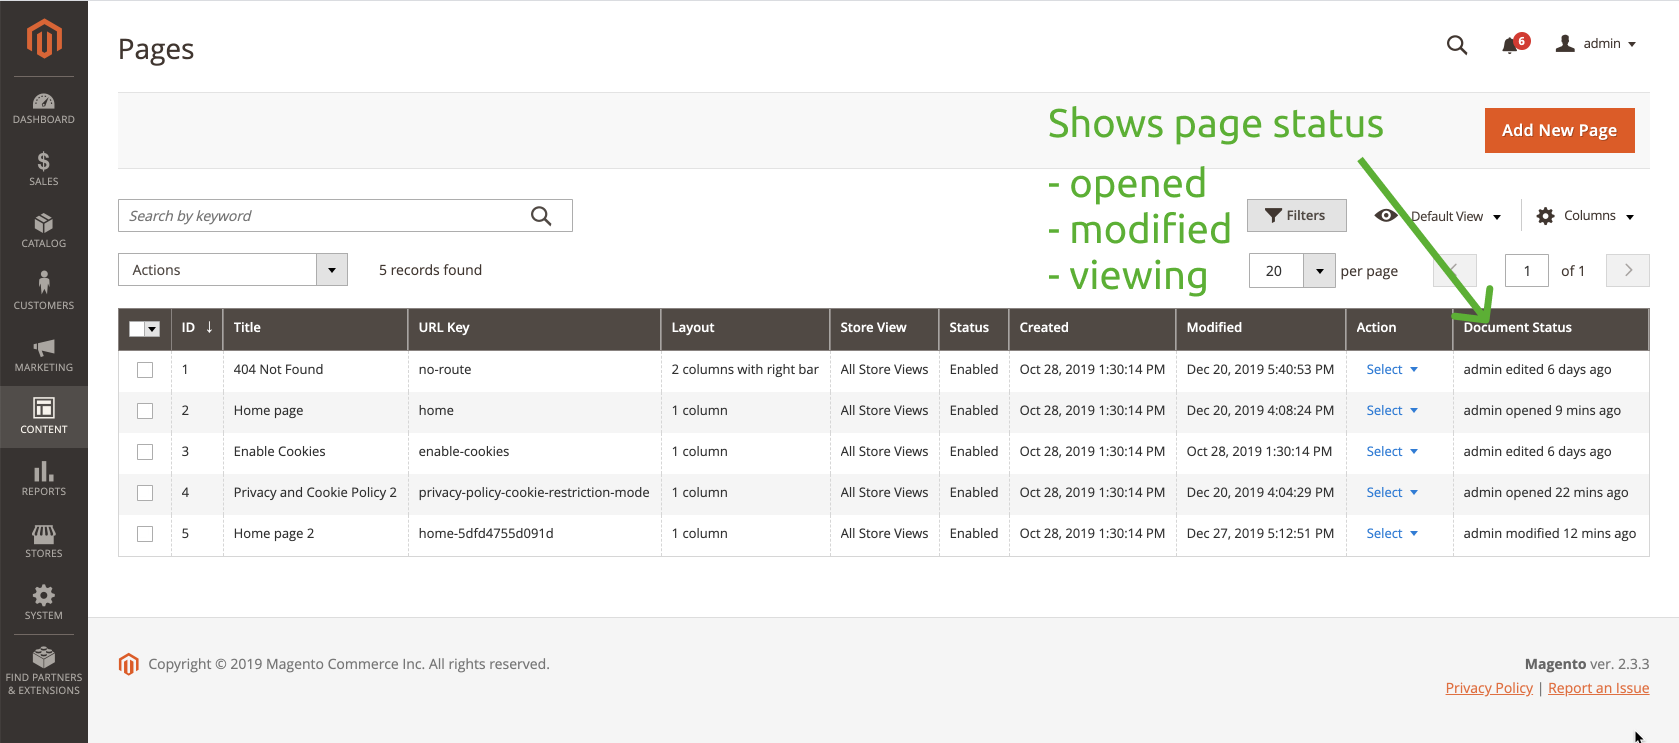
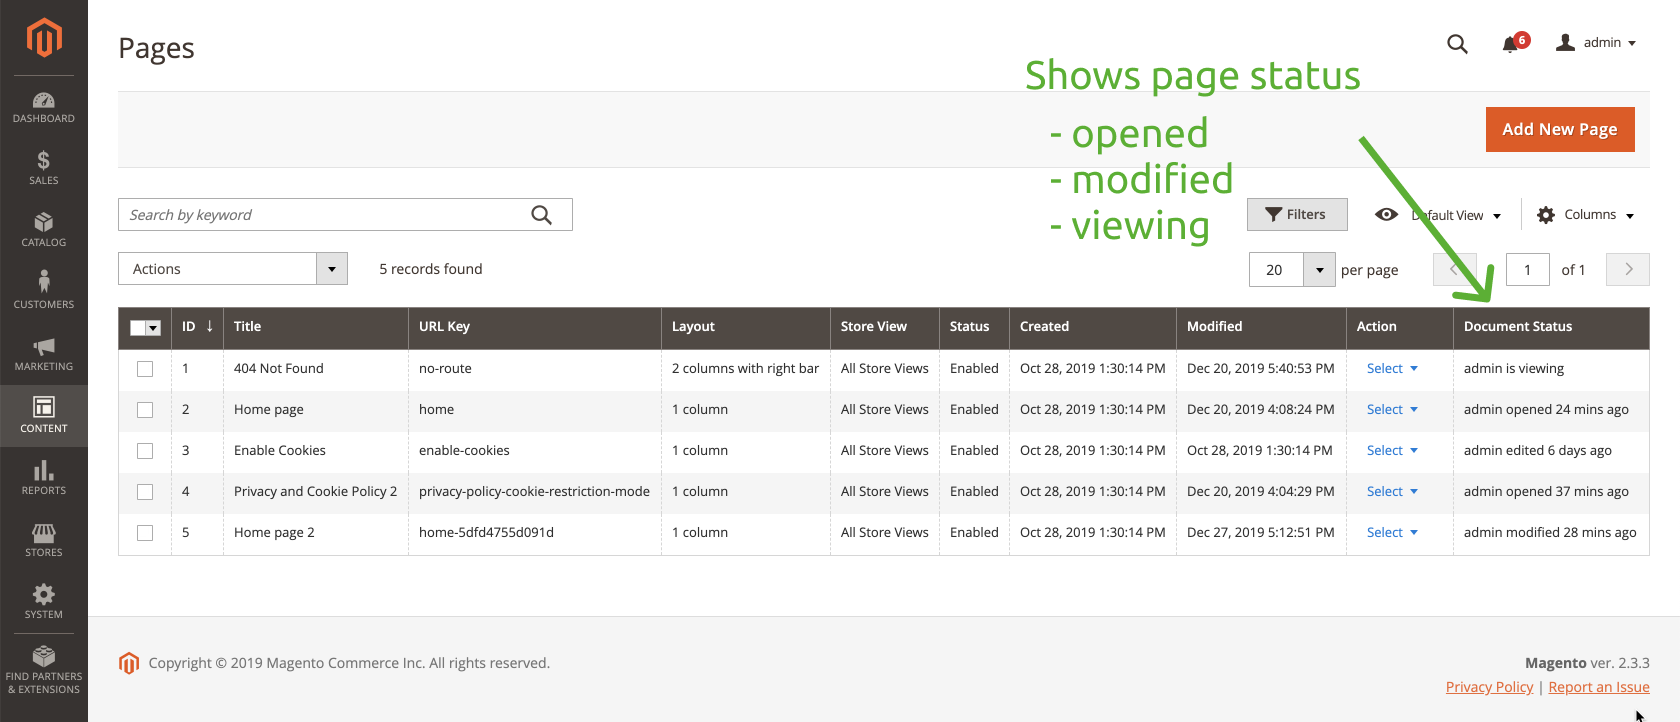
Updated README.md with the latest features

diff --git a/README.md b/README.md
@@ -11,9 +11,7 @@ Available status changes:
 * Page Listing Document Status shows one of the messages:
   * "user is currently viewing"
   * "user opened 10 mins ago"
-  * "user edited 5 days ago"
-  * "user modified 12 mins ago"
-
+  * "user modified 12 hours ago"
 
 The extension is under development, check out the [TODO](TODO.md) for the list of features and its status.
 
